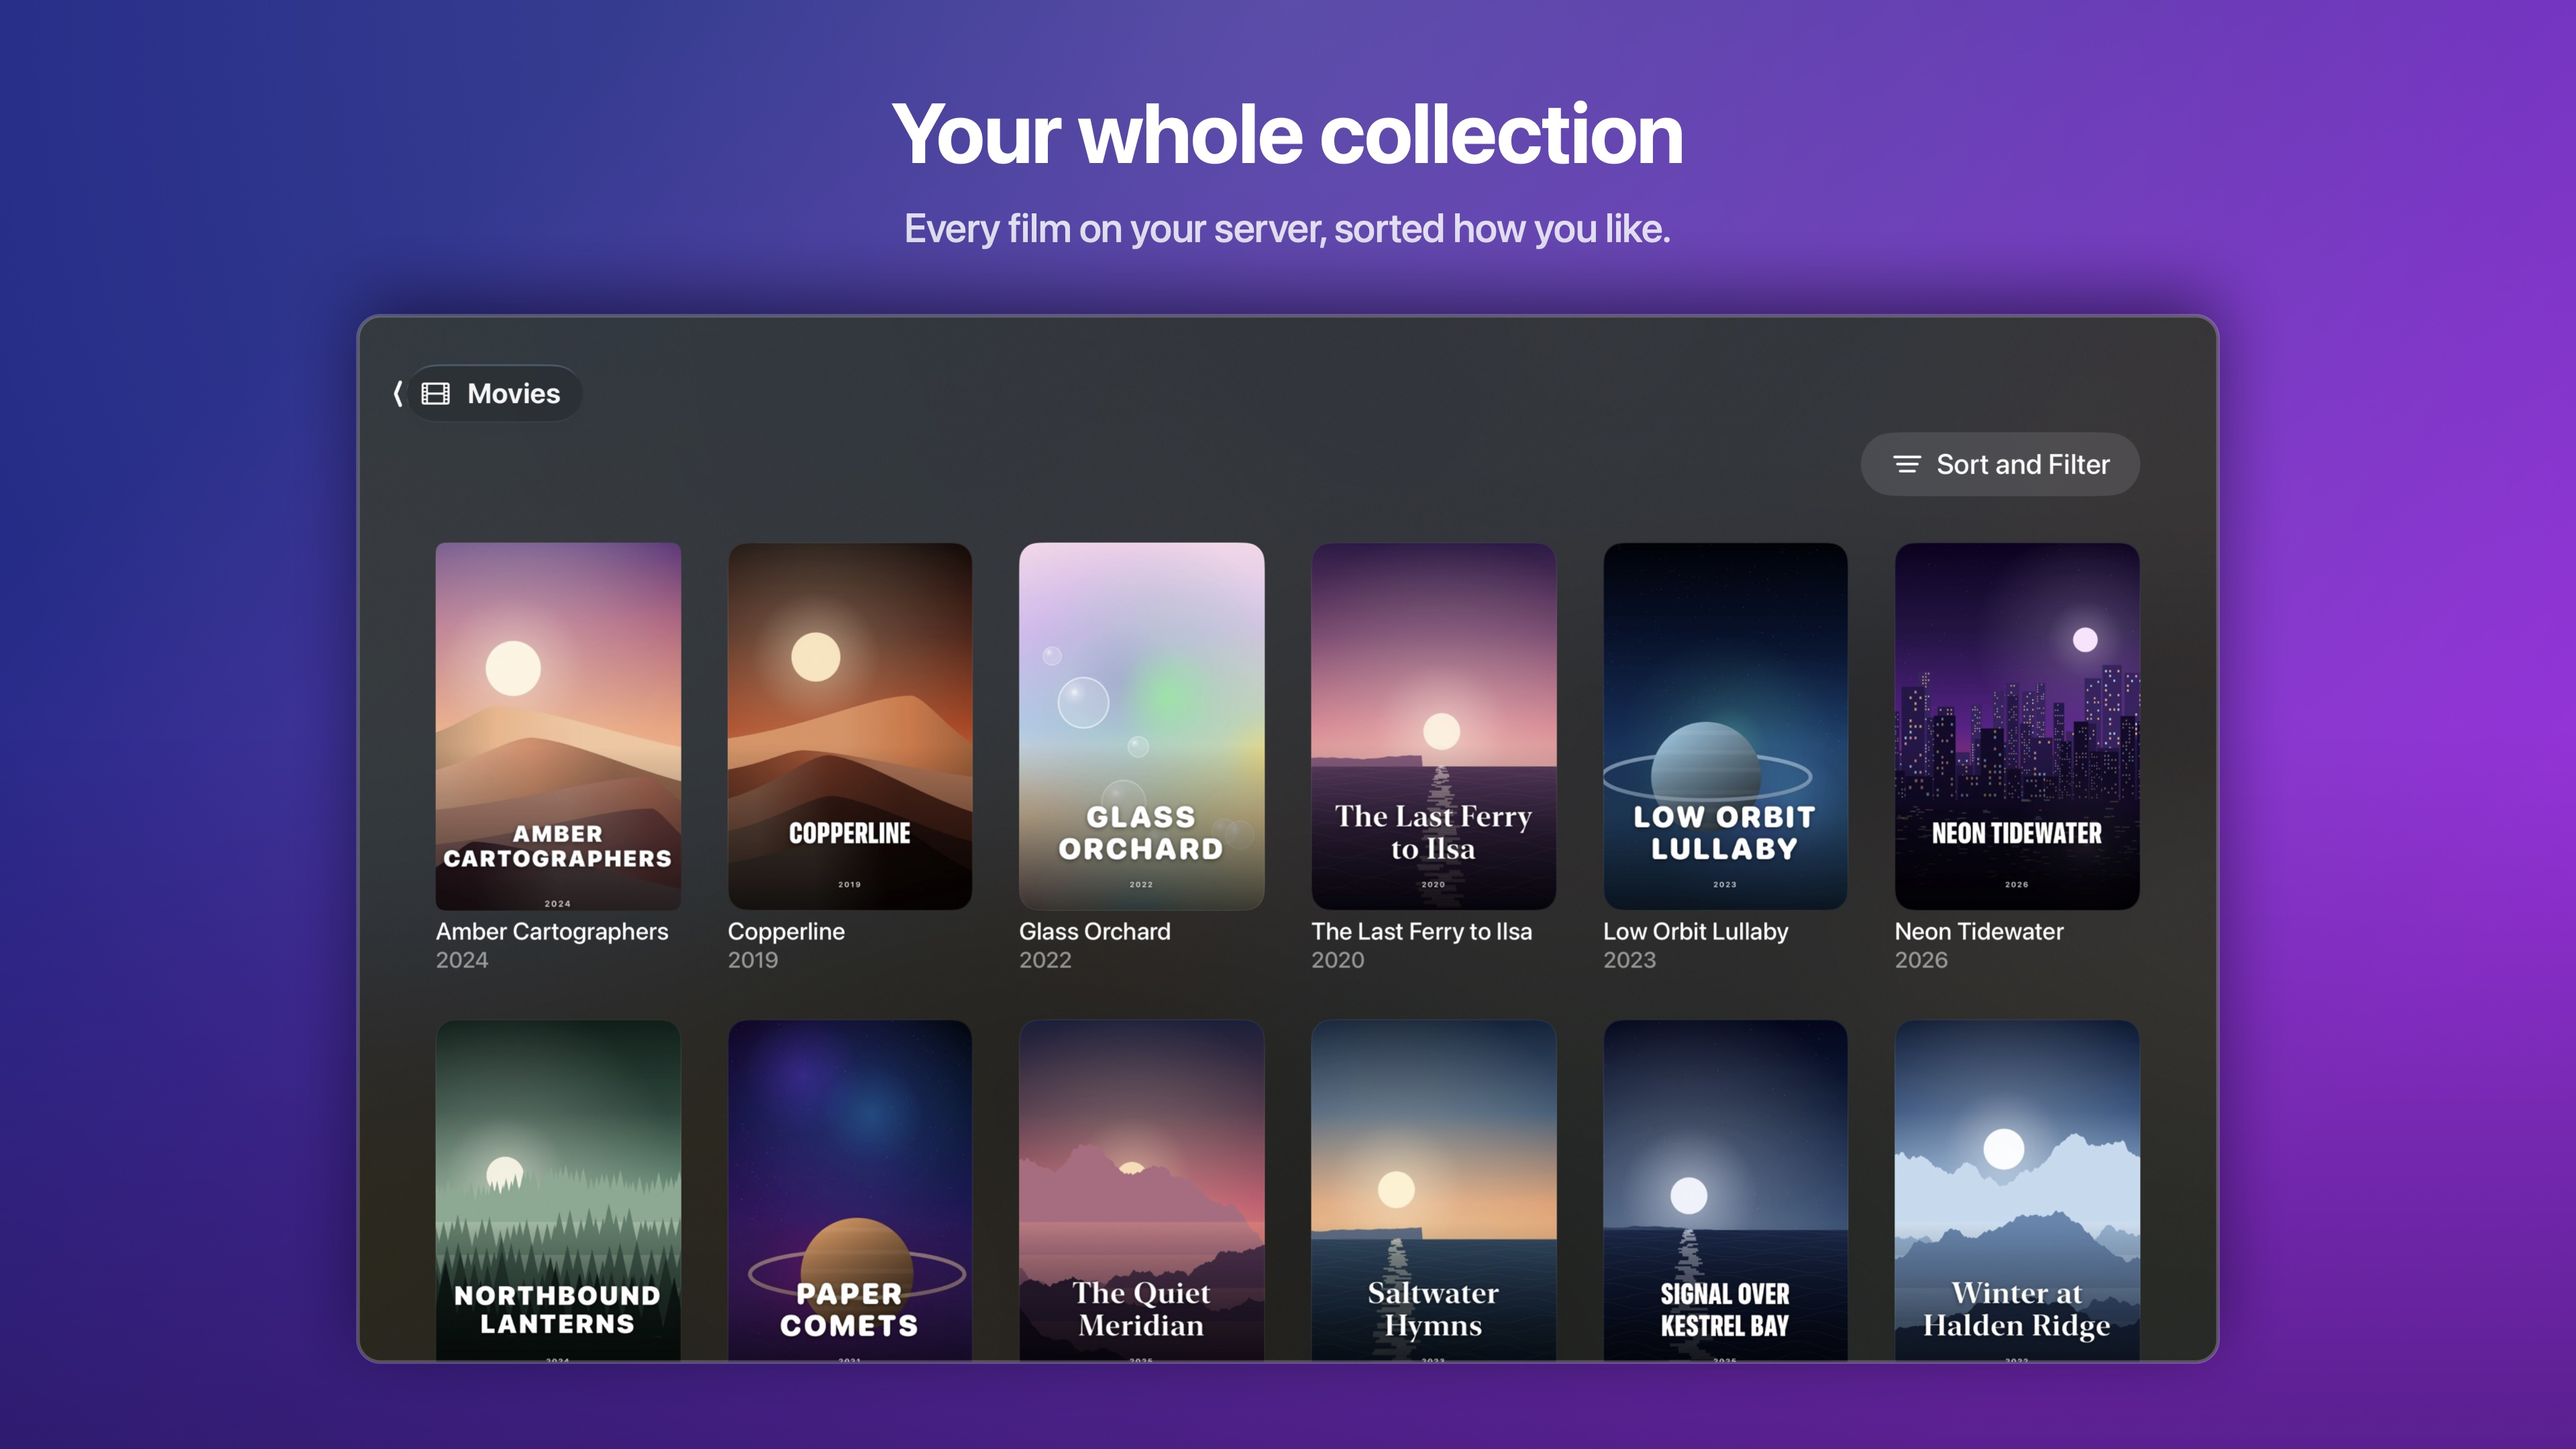
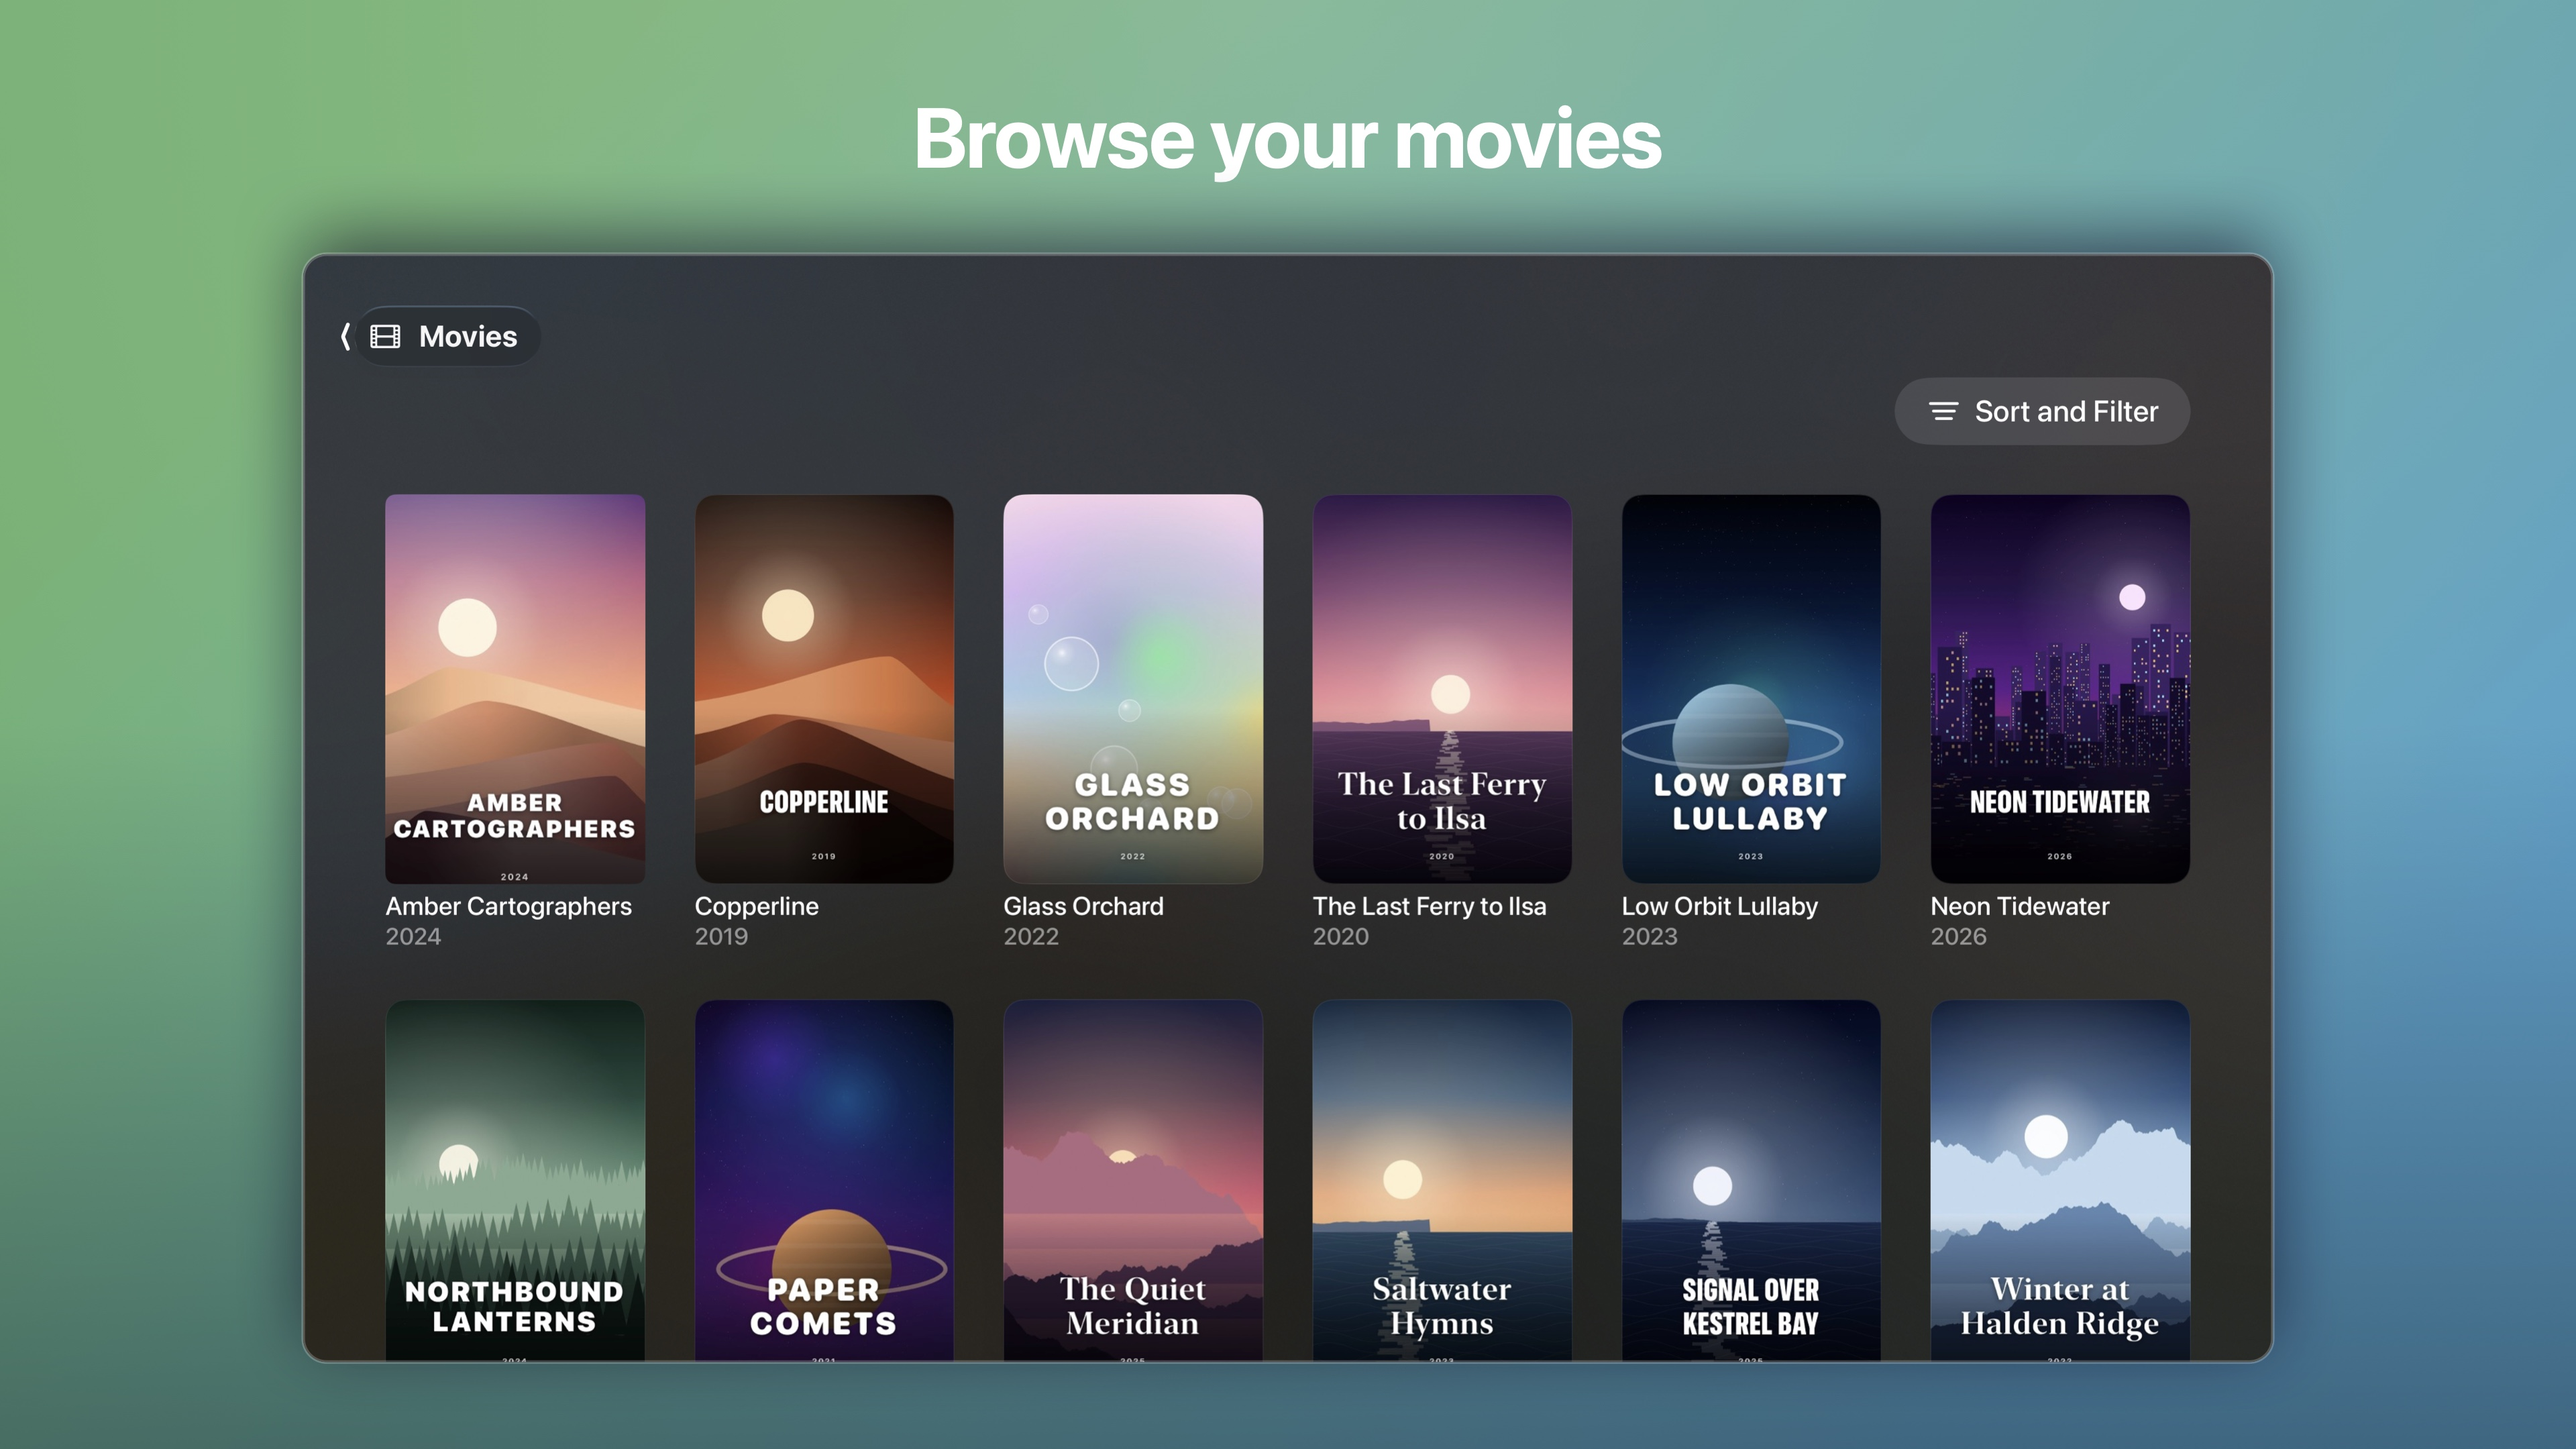
Shoot the App Store sets again in vinnyfin's green, and wait for downloads by what's left in progress
The Downloads screenshots waited for four finished rows, but a list makes its rows only as they
come into view, and on iPhone Duo's outer display the fourth never does. They now wait until no
row is left in progress, which sits at the top of the list on any screen.

diff --git a/VinnyfinUITests/ScreenshotTests.swift b/VinnyfinUITests/ScreenshotTests.swift
@@ -317,9 +317,13 @@ final class ScreenshotTests: XCTestCase {
     @MainActor
     private func snapDownloads(_ app: XCUIApplication, name: String) async throws {
         tap(tab("Downloads", in: app))
-        let downloaded = app.buttons.matching(NSPredicate(format: "identifier BEGINSWITH 'downloaded.'"))
-        let four = XCTNSPredicateExpectation(predicate: NSPredicate(format: "count >= 4"), object: downloaded)
-        XCTAssertEqual(XCTWaiter.wait(for: [four], timeout: 120), .completed, "The downloads didn't finish")
+        // Done when no row is left at the top in progress. Finished rows can't be counted: a list
+        // makes its rows only as they come into view, and on iPhone Duo's outer display they don't
+        // all fit.
+        let unfinished = app.descendants(matching: .any).matching(NSPredicate(format: "identifier BEGINSWITH 'job.'")).firstMatch
+        let downloaded = app.buttons.matching(NSPredicate(format: "identifier BEGINSWITH 'downloaded.'")).firstMatch
+        let done = XCTNSPredicateExpectation(predicate: NSPredicate { _, _ in !unfinished.exists && downloaded.exists }, object: nil)
+        XCTAssertEqual(XCTWaiter.wait(for: [done], timeout: 120), .completed, "The downloads didn't finish")
         chooseDownloads("720p", transcoded: true, keepingThemRunning: true, in: app)
         // Port Ellery's page, still open from its screenshot.
         tap(tab("Shows", in: app))
@@ -327,8 +331,7 @@ final class ScreenshotTests: XCTestCase {
         tap(app.buttons["Download Season 1"])
         tap(app.buttons["batch.download"])
         tap(tab("Downloads", in: app))
-        let downloading = app.descendants(matching: .any).matching(NSPredicate(format: "identifier BEGINSWITH 'job.'")).firstMatch
-        XCTAssertTrue(downloading.waitForExistence(timeout: uiTimeout), "The season never started downloading")
+        XCTAssertTrue(unfinished.waitForExistence(timeout: uiTimeout), "The season never started downloading")
         try await snap(name, once: app.descendants(matching: .any)["keepAwake.status"])
     }
     #endif
